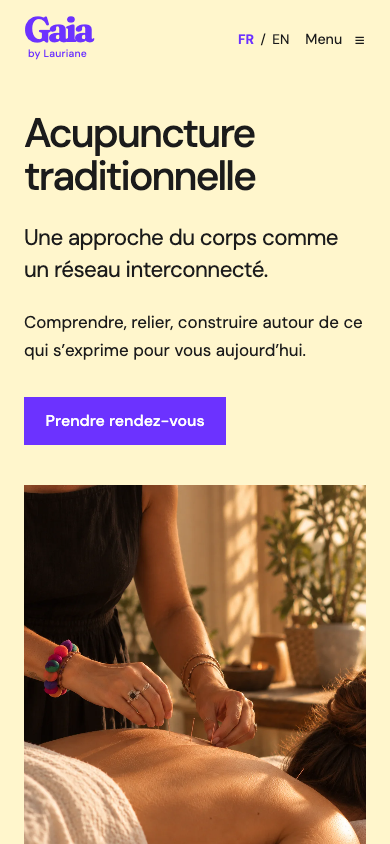
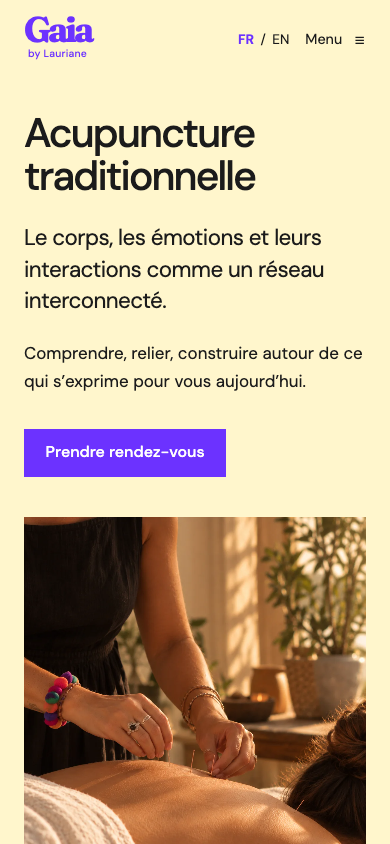
Update Site source

diff --git a/src/styles/global.css b/src/styles/global.css
@@ -12,3 +12,16 @@
 @media(max-width:700px){.acupuncture-hero{grid-template-columns:1fr;gap:2.5rem;padding-top:2rem;padding-bottom:3.5rem;min-height:0}.acupuncture-hero h1{font-size:clamp(2.55rem,10.4vw,3.9rem);margin-bottom:1.5rem;overflow-wrap:normal}.acupuncture-subtitle{font-size:1.4rem;max-width:28ch}.acupuncture-hero-photo{height:auto;max-height:none;aspect-ratio:5/6}.acupuncture-hero-photo img{object-position:50% 55%}.acupuncture-editorial{grid-template-columns:1fr;gap:0}.session-steps{grid-template-columns:1fr;gap:2.5rem}.session-steps h3{font-size:1.3rem;margin-bottom:1rem}.session-steps p{font-size:1.0625rem}.consultation-reasons{grid-template-columns:1fr;gap:.7rem;margin:1.8rem 0}.care-note{font-size:1rem}.expectation-list{gap:2rem}}
 
 .acupuncture-page .care-note{font-size:.9375rem;line-height:1.6}.acupuncture-page .care-note em{color:var(--muted);font-style:italic}.acupuncture-page .expectation-list h3{text-transform:uppercase;font-size:1.1rem;letter-spacing:.025em}
+
+/* Visual refinement scoped to Acupuncture; homepage keeps its composition. */
+.acupuncture-page .acupuncture-hero{grid-template-columns:1fr 1.1fr;gap:6%;padding-right:calc(var(--gutter)*.65)}
+.acupuncture-page .acupuncture-hero-photo{height:650px;max-height:76svh}
+.acupuncture-page .acupuncture-editorial{grid-template-columns:.6fr 1.65fr;gap:10%}
+.approach-blocks{display:grid;gap:3rem}.approach-blocks p{margin:0}.approach-opening{font-size:clamp(1.3rem,1.9vw,1.75rem);line-height:1.55;letter-spacing:-.02em;max-width:43ch}
+.approach-clues{max-width:52ch;padding-left:8%}.clues-prefix{display:block;font-size:1rem;margin-bottom:.1rem}.clues-emphasis{display:block;color:var(--orange);font-size:clamp(2.4rem,4.4vw,4.4rem);line-height:1.14;letter-spacing:-.045em;margin-bottom:1.3rem;font-weight:500}.approach-closing{font-size:clamp(1.8rem,2.5vw,2.45rem);line-height:1.25;max-width:29ch;padding-top:.5rem}
+.acupuncture-page .acupuncture-network .split{grid-template-columns:.9fr 1.2fr;gap:12%}.acupuncture-network .split>div:first-child{max-width:43ch}.acupuncture-page .acupuncture-network .map{max-width:540px}.map-expressive path:first-child{stroke-width:3.5}.map-expressive path:nth-child(2){stroke-width:2}.map-expressive path:nth-child(3){stroke-width:2.5}.map-expressive circle:first-of-type,.map-expressive circle:last-of-type{fill:var(--orange);stroke:var(--orange)}
+.acupuncture-page .session-steps{gap:4.5%;align-items:start;margin-top:3.5rem}.acupuncture-page .session-steps h3{font-size:clamp(2rem,3.9vw,4.1rem);font-weight:500;letter-spacing:-.06em;line-height:1.05;margin-bottom:2rem}.session-steps>div:nth-child(2){padding-top:3.5rem}.session-steps>div:last-child{padding-top:7rem}.acupuncture-page .session-steps>div:last-child h3{color:var(--orange)}.session-steps p{max-width:30ch}
+.acupuncture-page .consultation-reasons{display:grid;grid-template-columns:1.2fr .85fr 1.1fr;column-gap:4%;row-gap:2rem;align-items:center;margin:3.5rem 0 3rem;font-size:clamp(1.8rem,3.1vw,3rem);letter-spacing:-.04em;line-height:1.15}.consultation-reasons li{min-width:0}.consultation-reasons .reason-0{grid-column:1/3;font-size:clamp(2.5rem,5vw,4.8rem)}.consultation-reasons .reason-1{color:var(--violet)}.consultation-reasons .reason-2{color:var(--orange);font-size:clamp(2.5rem,4.8vw,4.5rem)}.consultation-reasons .reason-3{font-family:var(--serif);font-size:clamp(2.5rem,4.5vw,4rem)}.consultation-reasons .reason-4{color:var(--violet)}.consultation-reasons .reason-5{font-size:clamp(1.8rem,3.2vw,3.1rem)}.consultation-reasons .reason-6{grid-column:2/4;font-size:clamp(2.2rem,4.2vw,4rem)}.acupuncture-page .consultation-reasons a{color:var(--violet);text-decoration:none;display:inline-block;min-height:44px}.consultation-reasons a:hover{text-decoration:underline}.consultation-reasons .reason-7{grid-column:1/4;font-size:clamp(1.8rem,3.4vw,3.2rem);margin-top:.4rem}.reasons-composition .care-note{margin-top:3rem}
+.acupuncture-page .expectation-list{grid-template-columns:1fr 1fr 1fr;gap:5%;margin-top:3rem}.acupuncture-page .expectation-list h3{font-size:.95rem;letter-spacing:.055em;margin-bottom:1.4rem}.expectation-list .practical-emphasis{font-size:clamp(2rem,3.3vw,3.1rem);font-weight:500;line-height:1.1;letter-spacing:-.045em;margin:0 0 1.8rem;max-width:12ch;min-height:3.3em}.expectation-list>div:first-child .practical-emphasis{color:var(--orange);font-size:clamp(2.7rem,4.9vw,4.6rem);min-height:2.23em;max-width:none}.expectation-list>div:last-child .practical-emphasis{font-family:var(--serif);font-size:clamp(2.2rem,3.6vw,3.4rem);min-height:3em}.expectation-list>div>p:last-child{max-width:30ch}
+@media(max-width:1050px){.acupuncture-page .acupuncture-hero{gap:5%;padding-right:var(--gutter)}.acupuncture-page .acupuncture-hero-photo{height:550px}.acupuncture-page .acupuncture-editorial{grid-template-columns:.6fr 1.65fr;gap:7%}.acupuncture-page .session-steps{gap:4%}.acupuncture-page .session-steps h3{font-size:clamp(1.85rem,3.8vw,2.6rem)}.acupuncture-page .acupuncture-network .split{gap:7%}.acupuncture-page .expectation-list{gap:4%}.expectation-list .practical-emphasis{font-size:2rem}.expectation-list>div:first-child .practical-emphasis{font-size:2.6rem;min-height:2.54em}.expectation-list>div:last-child .practical-emphasis{font-size:2.1rem;min-height:3.15em}}
+@media(max-width:700px){.acupuncture-page .acupuncture-hero{grid-template-columns:1fr;padding-right:var(--gutter);gap:2.5rem}.acupuncture-page .acupuncture-hero-photo{height:auto;max-height:none}.acupuncture-page .acupuncture-editorial{grid-template-columns:1fr;gap:0}.approach-blocks{gap:2.3rem}.approach-opening{font-size:1.25rem}.approach-clues{padding-left:0}.clues-emphasis{font-size:clamp(2.5rem,10vw,3.5rem)}.approach-closing{font-size:1.9rem}.acupuncture-page .acupuncture-network .split{grid-template-columns:1fr;gap:2rem}.acupuncture-page .session-steps{grid-template-columns:1fr;gap:2.8rem;margin-top:2.5rem}.acupuncture-page .session-steps h3{font-size:clamp(2.4rem,11vw,3.5rem);margin-bottom:1rem}.session-steps>div:nth-child(2),.session-steps>div:last-child{padding-top:0}.session-steps p{max-width:40ch}.acupuncture-page .consultation-reasons{grid-template-columns:1fr 1fr;gap:1.6rem 1rem;margin:2.5rem 0;font-size:1.6rem}.consultation-reasons .reason-0{grid-column:1/3;font-size:2.5rem}.consultation-reasons .reason-1{font-size:1.9rem}.consultation-reasons .reason-2{font-size:2.5rem}.consultation-reasons .reason-3{font-size:2.35rem}.consultation-reasons .reason-4{font-size:1.8rem}.consultation-reasons .reason-5{grid-column:1/3;font-size:2rem}.consultation-reasons .reason-6{grid-column:1/3;font-size:2.3rem}.consultation-reasons .reason-7{grid-column:1/3;font-size:1.9rem}.acupuncture-page .expectation-list{grid-template-columns:1fr;gap:2.7rem;margin-top:2.5rem}.acupuncture-page .expectation-list h3{margin-bottom:.9rem}.expectation-list .practical-emphasis,.expectation-list>div:last-child .practical-emphasis{font-size:2.5rem;min-height:0;max-width:15ch;margin-bottom:1.2rem}.expectation-list>div:first-child .practical-emphasis{font-size:3.5rem;min-height:0;margin-bottom:1.2rem}.expectation-list>div>p:last-child{max-width:40ch}}

diff --git a/src/data/acupuncture-fr.ts b/src/data/acupuncture-fr.ts
@@ -1,6 +1,6 @@
 export const acupunctureFr = {
  title:'Acupuncture traditionnelle',
- subtitle:'Une approche du corps comme un réseau interconnecté.',
+ subtitle:'Le corps, les émotions et leurs interactions comme un réseau interconnecté.',
  intro:'Comprendre, relier, construire autour de ce qui s’exprime pour vous aujourd’hui.',
  approach:[
  'J’aime décrire mon approche de l’acupuncture comme celle d’une détective. Tout au long de la séance, mon objectif est d’apprendre à vous connaître et de comprendre vos différents fonctionnements. Une douleur, un sommeil perturbé, une digestion difficile ou une fatigue sont rarement des phénomènes isolés.',
@@ -11,14 +11,14 @@ export const acupunctureFr = {
  'Quand j’explique l’acupuncture, je la compare souvent au plan des transports parisiens.',
  'Il existe plusieurs lignes, plusieurs chemins, plusieurs façons de relier un point à un autre.',
  'Parfois un trajet est bloqué. Il faut alors comprendre le réseau dans son ensemble pour trouver une autre voie.',
- 'C’est cette logique de relations et de circulation qui me fascine dans l’acupuncture.'
+ 'C’est cette logique de relations et de circulation que je trouve fascinante dans l’acupuncture.'
  ],
  steps:[
  {title:'Échanger',copy:'La première partie de la séance dure généralement 15 à 20 minutes. Elle me permet de comprendre ce qui vous amène, votre histoire, votre contexte et les différents signes que votre corps exprime.'},
  {title:'Observer',copy:'Je complète cet échange par un bilan énergétique, notamment à travers la prise des pouls et l’observation de la langue.'},
  {title:'Agir',copy:'Je construis ensuite la séance et choisis les points en fonction du bilan réalisé et de ce que votre corps exprime ce jour-là.'}
  ],
- reasons:['Douleurs et tensions','Sommeil','Stress','Fatigue','Digestion','Cycle menstruel / santé féminine','Inconforts fonctionnels'],
+ reasons:['Douleurs et tensions','Sommeil','Stress','Fatigue','Digestion','Cycle menstruel','Santé féminine','Inconforts fonctionnels'],
  reasonsIntro:'Quelques motifs qui peuvent vous amener à consulter :',
  careNote:'L’acupuncture traditionnelle ne remplace pas un diagnostic ni un suivi médical.',
  expectations:[
